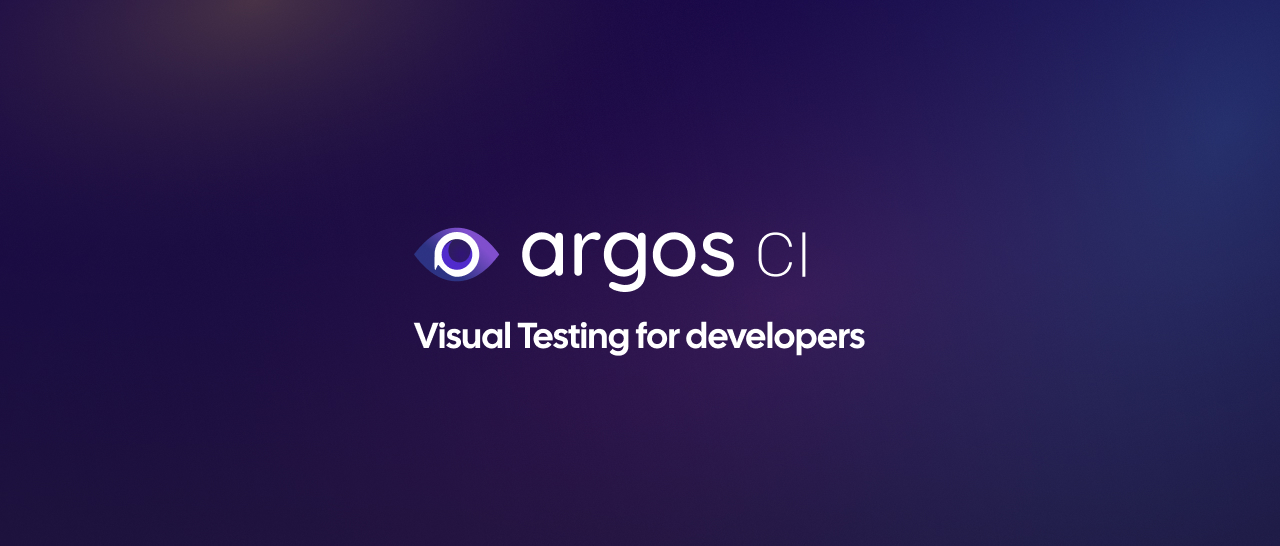
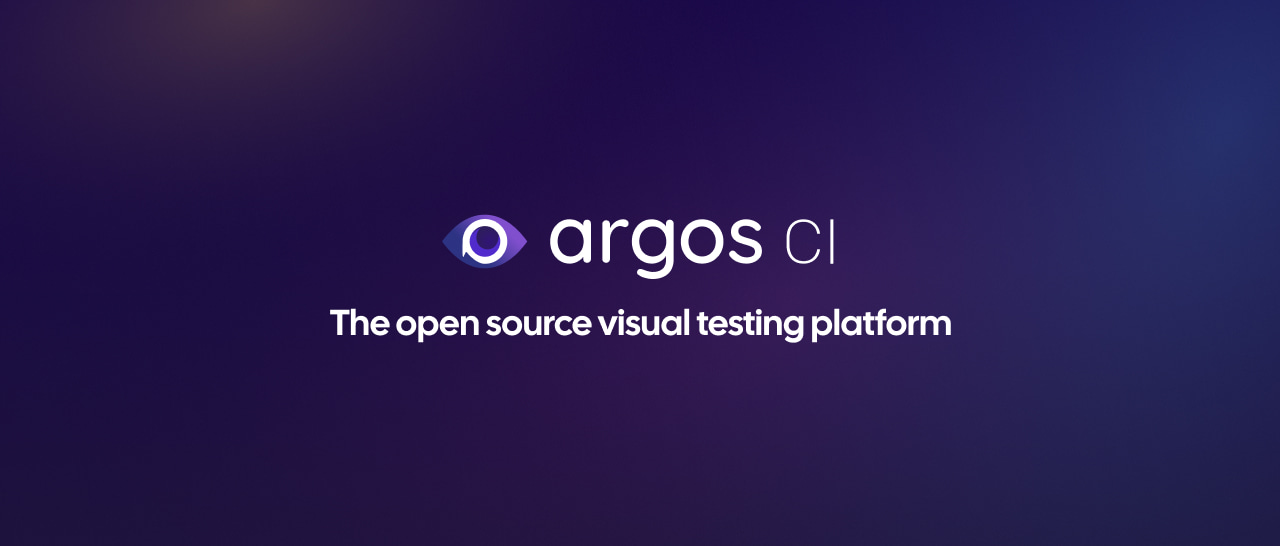
Update page

Changed region(s): [[0.25, 0.5604, 0.75, 0.6538], [0.3125, 0.3736, 0.6562, 0.5293]]

diff --git a/profile/README.md b/profile/README.md
@@ -1,21 +1,19 @@
-<!-- PROJECT LOGO -->
 <p align="center">
-  <a href="https://github.com/argos-ci/argos">
-   <img src="https://raw.githubusercontent.com/argos-ci/.github/main/assets/banner.jpg" alt="Argos Banner">
+  <a href="https://argos-ci.com/?utm_source=github&utm_medium=logo" target="_blank">
+  <img src="https://raw.githubusercontent.com/argos-ci/.github/main/assets/banner.jpg" alt="Argos, the open source visual testing platform">
   </a>
+</p>
 
-  <h3 align="center">Argos</h3>
+<h3 align="center">Argos</h3>
 
-  <p align="center">
-    The open-source visual testing platform.
-    <br />
-    <a href="https://argos-ci.com"><strong>Learn more »</strong></a>
-    <br />
-    <br />
-    <a href="https://argos-ci.com">Website</a>
-    ·
-    <a href="https://github.com/argos-ci/argos/issues">Feedback</a>
-    ·
-    <a href="https://argos-ci.com/docs">Documentation</a>
-  </p>
+<p align="center">
+  Argos is the open source visual testing platform for modern engineering teams.
+  <br />
+  <a href="https://argos-ci.com"><strong>Learn more »</strong></a>
+  <br />
+  <br />
+  <a href="https://argos-ci.com/docs"><strong>Docs</strong></a> ·
+  <a href="https://github.com/argos-ci/argos/issues"><strong>Feedback</strong></a> ·
+  <a href="https://x.com/argos_ci"><strong>Follow us on X</strong></a> ·
+  <a href="https://argos-ci.com/discord"><strong>Discord</strong></a>
 </p>
